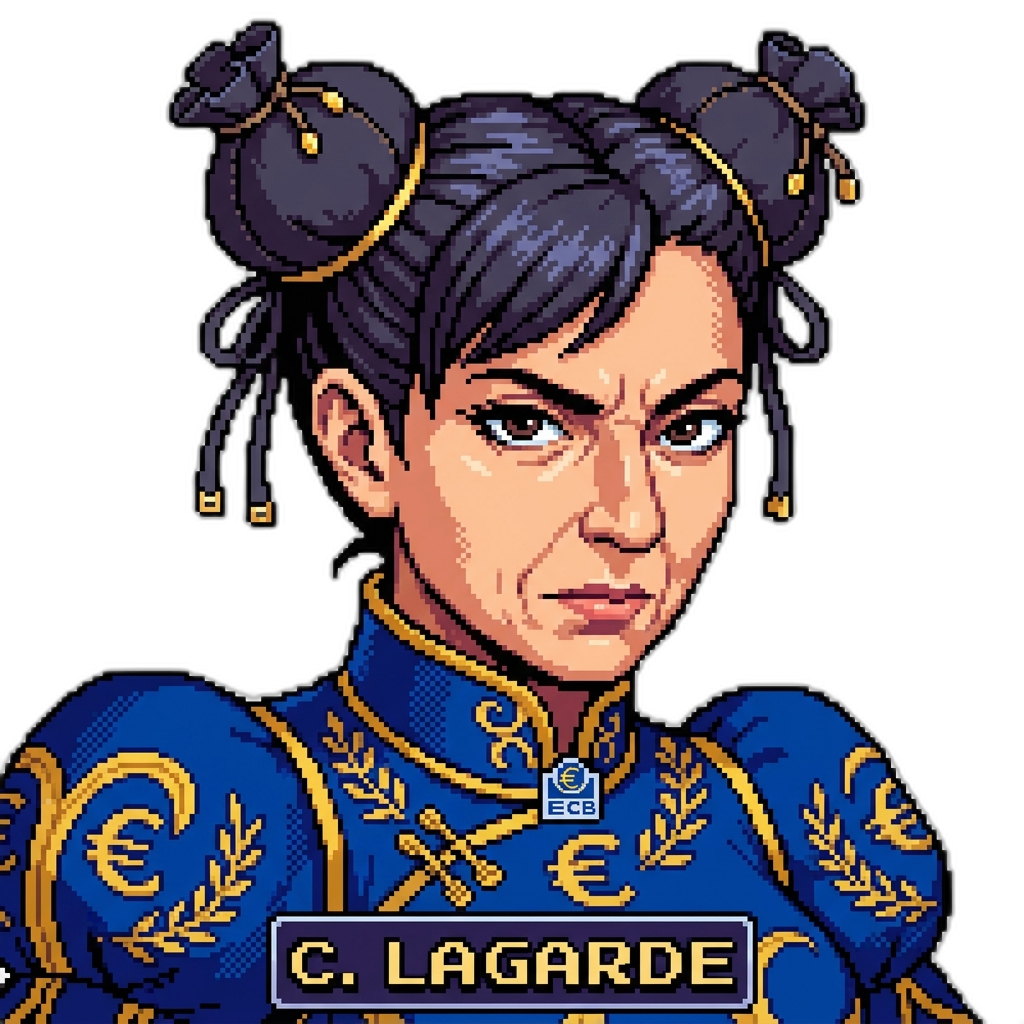
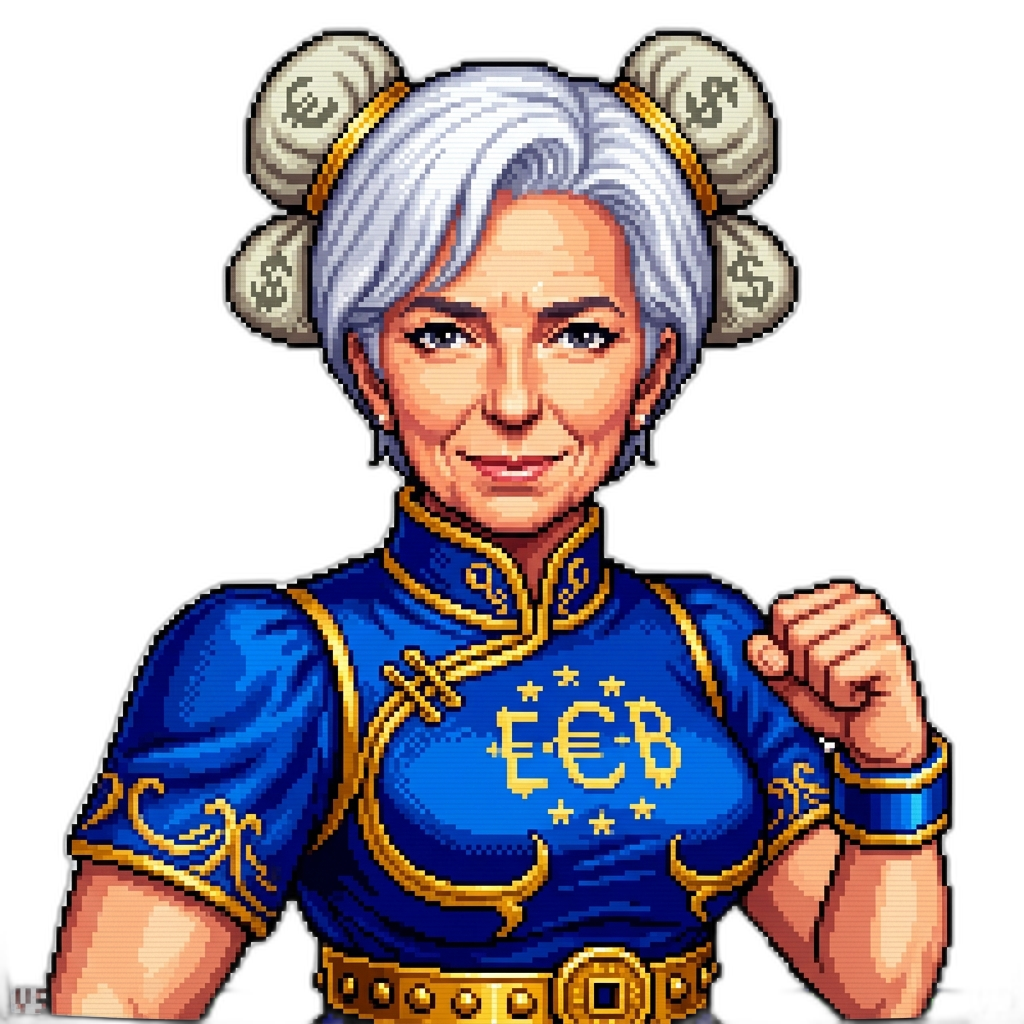
Refine Lagarde Fighter Card (v14: Silver Hair Chun-Li parody)

diff --git a/scripts/apply_rembg.py b/scripts/apply_rembg.py
@@ -28,7 +28,7 @@ def process_with_ai(src_path, dest_path):
 BATCH_MAPPING = {
     r"C:\Users\dacan\.gemini\antigravity\brain\e1ff93e5-feb9-40de-bb1e-b46aafdf7fd1\trump_terry_closeup_v13_arcade_1774746476078.png": r"c:\Users\dacan\OneDrive\Documenti\My Games\civic-nightmare\assets\mockups\trump_combat_portrait.png",
     r"C:\Users\dacan\.gemini\antigravity\brain\e1ff93e5-feb9-40de-bb1e-b46aafdf7fd1\macron_raiden_closeup_v13_arcade_1774746488724.png": r"c:\Users\dacan\OneDrive\Documenti\My Games\civic-nightmare\assets\mockups\macron_combat_portrait.png",
-    r"C:\Users\dacan\.gemini\antigravity\brain\e1ff93e5-feb9-40de-bb1e-b46aafdf7fd1\lagarde_chunli_closeup_v13_arcade_1774746503702.png": r"c:\Users\dacan\OneDrive\Documenti\My Games\civic-nightmare\assets\mockups\lagarde_combat_portrait.png",
+    r"C:\Users\dacan\.gemini\antigravity\brain\e1ff93e5-feb9-40de-bb1e-b46aafdf7fd1\lagarde_chunli_silver_v14_arcade_1774746717032.png": r"c:\Users\dacan\OneDrive\Documenti\My Games\civic-nightmare\assets\mockups\lagarde_combat_portrait.png",
     r"C:\Users\dacan\.gemini\antigravity\brain\e1ff93e5-feb9-40de-bb1e-b46aafdf7fd1\putin_vega_closeup_v13_arcade_1774746522877.png": r"c:\Users\dacan\OneDrive\Documenti\My Games\civic-nightmare\assets\mockups\putin_combat_portrait.png",
     r"C:\Users\dacan\.gemini\antigravity\brain\e1ff93e5-feb9-40de-bb1e-b46aafdf7fd1\musk_bison_closeup_v13_arcade_1774746534365.png": r"c:\Users\dacan\OneDrive\Documenti\My Games\civic-nightmare\assets\mockups\musk_combat_portrait.png",
     r"C:\Users\dacan\.gemini\antigravity\brain\e1ff93e5-feb9-40de-bb1e-b46aafdf7fd1\vdl_cammy_closeup_v13_arcade_1774746550709.png": r"c:\Users\dacan\OneDrive\Documenti\My Games\civic-nightmare\assets\mockups\vdl_combat_portrait.png",
